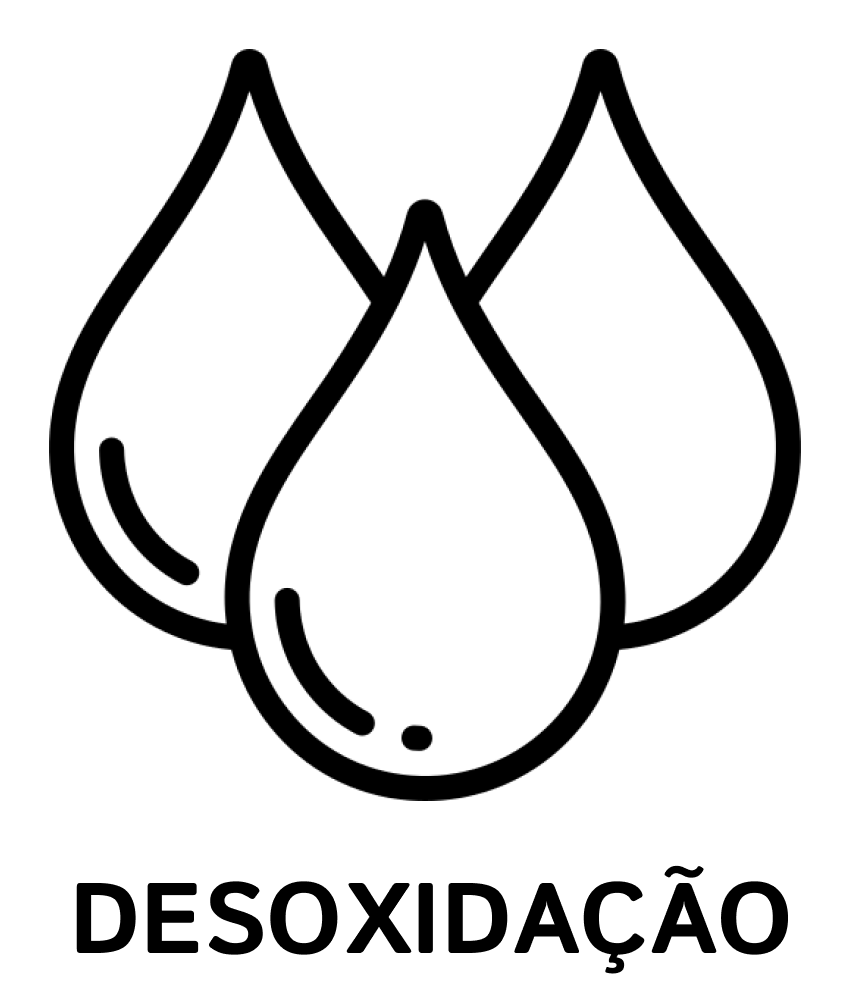
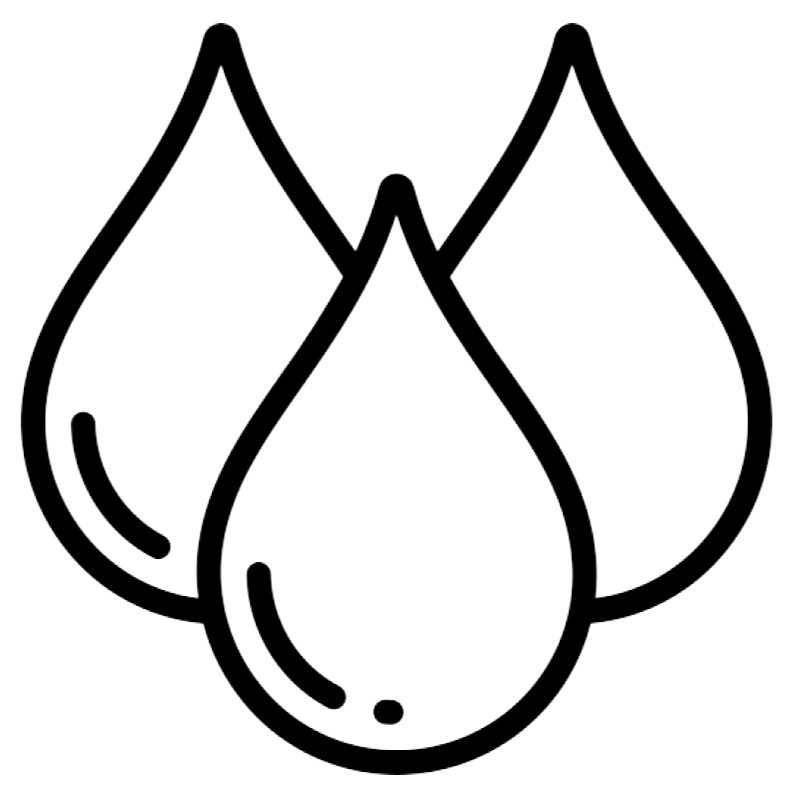
serviços

Changed region(s): [[0.0, 0.0301, 1.0, 0.9925], [0.8485, 0.3008, 0.8788, 0.3609], [0.1212, 0.3008, 0.1515, 0.3609]]

diff --git a/servicos/servicos.css b/servicos/servicos.css
@@ -1,8 +1,22 @@
-body {
-  background-color: #d9d9d9;
-  margin: 0;
-  font-family: Arial, sans-serif;
+html {
+  scroll-behavior: smooth;
 }
+
+html, body {
+  overflow-x: hidden;
+}
+
+
+* {
+  margin: 0;
+  padding: 0;
+  box-sizing: border-box;
+}
+
+body {
+    margin: 0;
+    font-family: Arial, sans-serif;
+  }
 
 /* Cabeçalho */
 .cabecalho {
@@ -85,6 +99,92 @@ body {
 .item-menu:hover {
   text-decoration: underline;
 }
+
+.container {
+  display: grid;
+  grid-template-columns: repeat(3, 1fr);
+  gap: 40px;
+  max-width: 1000px;
+  margin: 60px auto;
+  text-align: center;
+}
+
+.servicos {
+  padding: 10px;
+  transition: transform 0.3s;
+  display: flex;
+  flex-direction: column;
+  align-items: center;
+  justify-content: center; 
+  height: 220px;
+}
+
+.servicos img {
+  width: 120px; 
+  height: auto;
+  margin-bottom: 5px; 
+}
+
+.servicos p {
+  font-weight: bold;
+  font-size: 20px;
+  line-height: 1.2;
+  color: #000;
+  text-decoration: none;
+  display: block;
+}
+
+.servicos a {
+  text-decoration: none;
+  color: inherit;
+}
+
+.servicos:hover {
+  transform: scale(1.05);
+}
+
+.breadcrumb {
+  font-family: sans-serif;
+  font-size: 14px;
+  color: #333;
+  margin-left: 85px;
+  margin-top: 15px;
+  list-style: none;
+  display: flex;
+  align-items: center;
+  padding: 0;
+}
+
+.breadcrumb li {
+  display: flex;
+  align-items: center;
+}
+
+.breadcrumb li + li::before {
+  content: "/";
+  margin: 0 5px;
+  color: #999;
+}
+
+.breadcrumb a {
+  text-decoration: none;
+  color: #333;
+}
+
+.breadcrumb .pg-atual {
+  color: #c06400;
+  font-weight: 500;
+}
+
+.titulo {
+  display: flex;
+  justify-content: center;
+  align-items: center;
+  text-align: center;
+  font-size: 26px;
+  margin-top: 15px;
+}
+
 
 /* RESPONSIVIDADE */
 @media (max-width: 768px) {

diff --git a/servicos/servicos.html b/servicos/servicos.html
@@ -3,7 +3,7 @@
 <head>
   <meta charset="UTF-8">
   <title>SuperCell</title>
-  <link rel="stylesheet" href="style.css">
+  <link rel="stylesheet" href="servicos.css">
 </head>
 <body>
 
@@ -48,6 +48,64 @@
   </script>
 
 <!-- COMECE O HTML DA PÁGINA ABAIXO --> 
+
+<main>
+
+  <nav aria-label="breadcrumb">
+    <ol class="breadcrumb">
+      <li>
+        <a href="index.html">Início</a>
+      </li>
+      <li class="pg-atual" aria-current="page">
+        Serviços
+      </li>
+    </ol>
+  </nav>
+
+  <section class="titulo">
+    <h1>Serviços</h1>
+  </section>
+
+
+  <div class="container">
+      <div class="servicos">
+        <a href="#">
+          <img src="imagens/trocadetela.png" alt="Troca de Tela">
+          <p>TROCA DE TELA</p>
+        </a>
+      </div>
+      <div class="servicos">
+        <a href="#">
+          <img src="imagens/desbloqueiodecelular.png" alt="Desbloqueio de Celular">
+          <p>DESBLOQUEIO DE CELULAR</p>
+        </a>
+      </div>
+      <div class="servicos">
+        <a href="#">
+          <img src="imagens/trocadebateria.png" alt="Troca de Bateria">
+          <p>TROCA DE BATERIA</p>
+        </a>
+      </div>
+      <div class="servicos">
+        <a href="#">
+          <img src="imagens/formatacao.png" alt="Formatação">
+          <p>FORMATAÇÃO</p>
+        </a>
+      </div>
+      <div class="servicos">
+        <a href="#">
+          <img src="imagens/desoxidacao.png" alt="Desoxidação">
+          <p>DESOXIDAÇÃO</p>
+        </a>
+      </div>
+      <div class="servicos">
+        <a href="#">
+          <img src="imagens/autofalantes.png" alt="Autofalante e Microfone">
+          <p>AUTOFALANTES E MICROFONE</p>
+        </a>
+      </div>
+  </div>
+</main>
 
 </body>
 </html>
